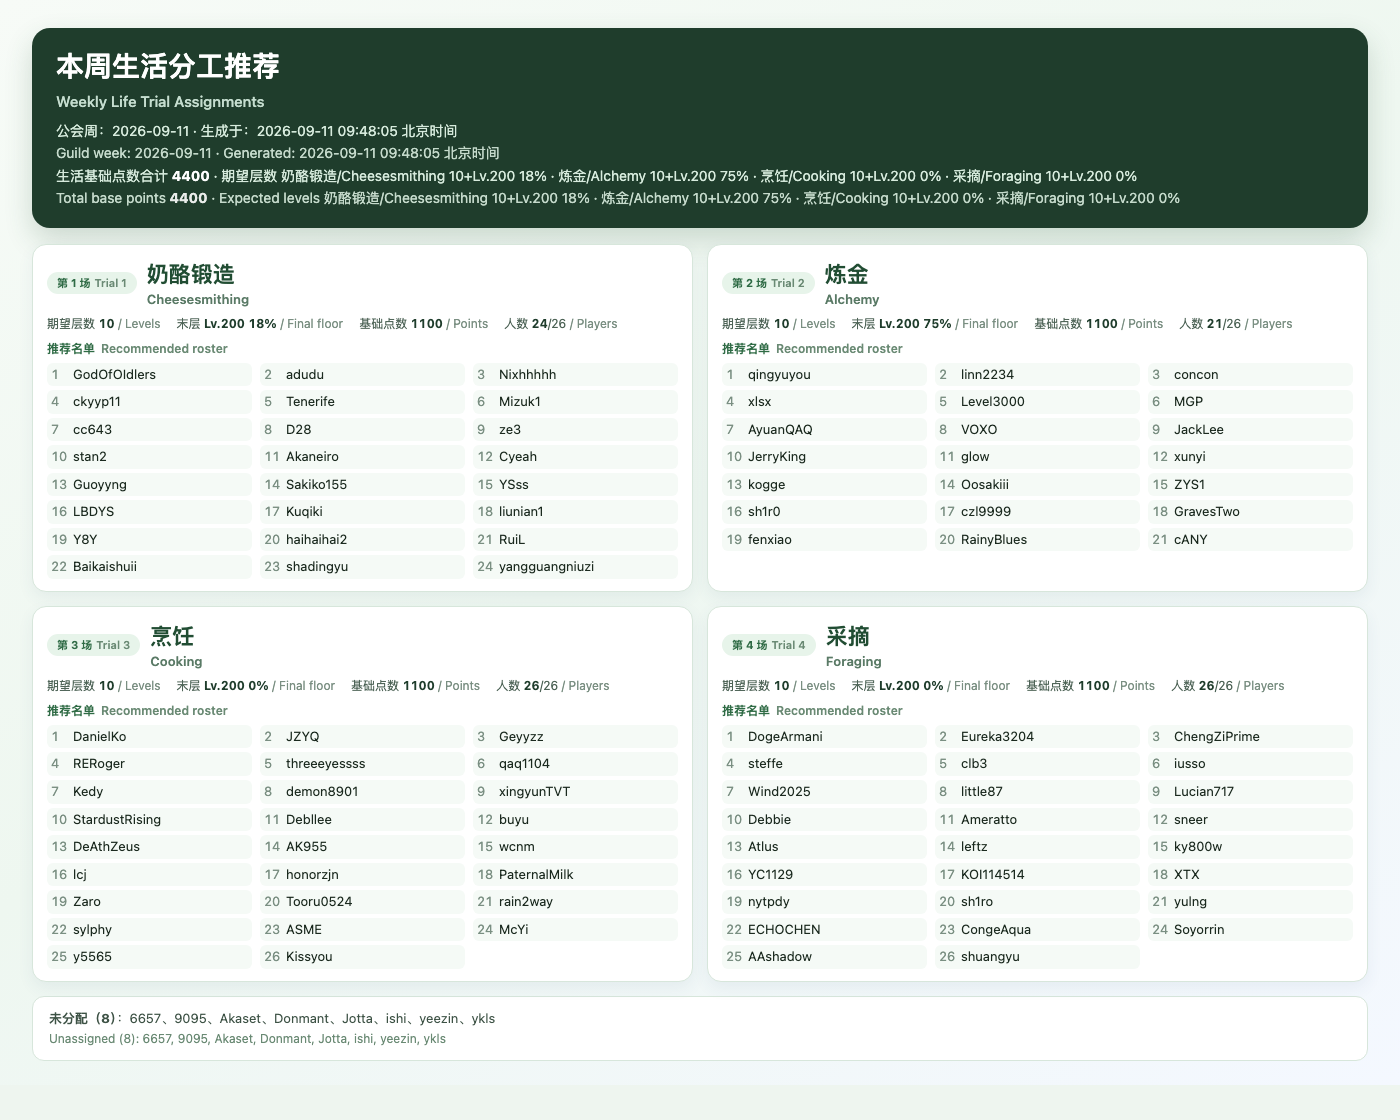
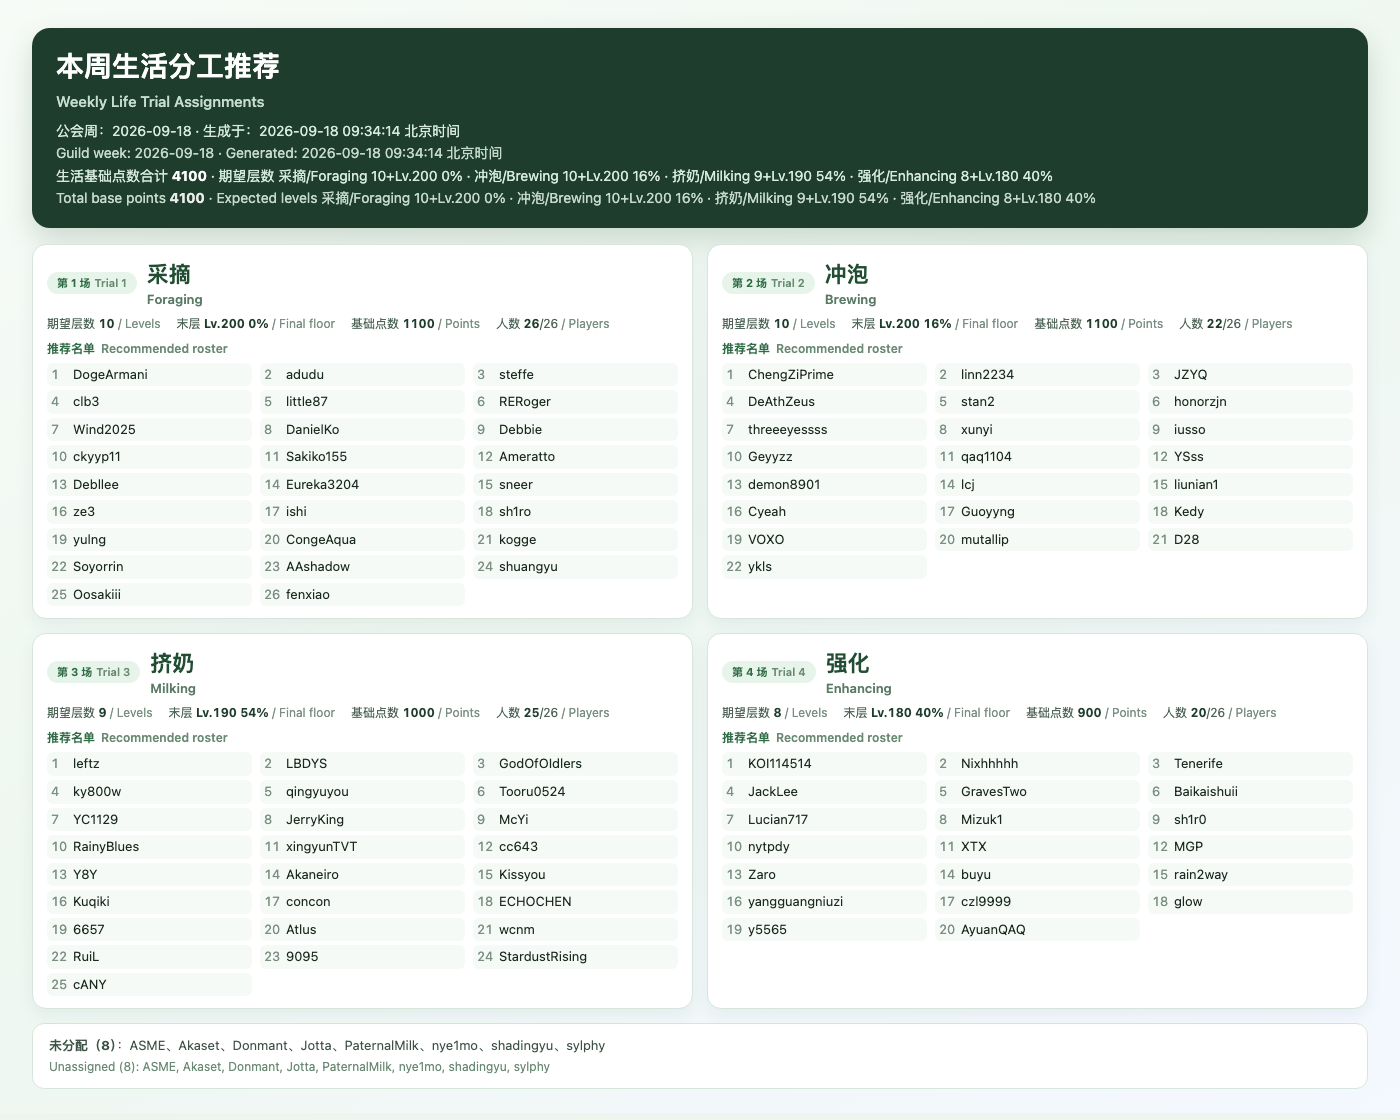
chore: refresh life assignment report (2026-09-18T00:00:00.000Z, 4100 pts)

diff --git a/reports/combat-assignment/index.html b/reports/combat-assignment/index.html
@@ -132,7 +132,7 @@
     <div class="header-text">
       <h1><span class="i18n" data-zh="本周分工" data-en="Weekly Assignments">本周分工</span></h1>
       <div class="meta">
-        <span class="i18n" data-zh="战斗方案：" data-en="Combat plan: ">战斗方案：</span>2026-09-11 09:48:05 北京时间
+        <span class="i18n" data-zh="战斗方案：" data-en="Combat plan: ">战斗方案：</span>2026-09-18 09:34:14 北京时间
         <span class="i18n" data-zh=" · 点选下方条目浏览生活/战斗图片" data-en=" · Pick a tab to browse life/combat images"> · 点选下方条目浏览生活/战斗图片</span>
       </div>
     </div>

diff --git a/reports/life-assignment/README.md b/reports/life-assignment/README.md
@@ -1,8 +1,8 @@
 # 本周生活分工
 
-- 公会周：`2026-09-04T00:00:00.000Z`
-- 生成时间：`2026-09-04T06:15:37.118Z`
-- 基础点数合计：`4300`
+- 公会周：`2026-09-18T00:00:00.000Z`
+- 生成时间：`2026-09-18T01:34:14.109Z`
+- 基础点数合计：`4100`
 
 图片：https://raw.githubusercontent.com/xiahuaaaa/mwi-guild-trial-helper/main/reports/life-assignment/latest.png
 JSON：https://raw.githubusercontent.com/xiahuaaaa/mwi-guild-trial-helper/main/reports/life-assignment/latest.json
